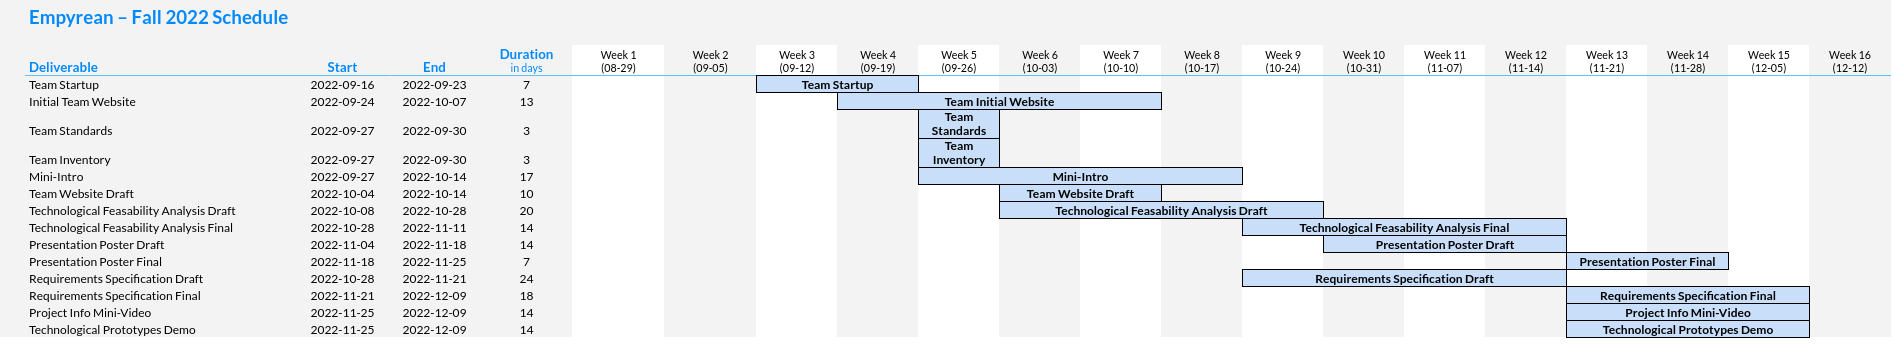
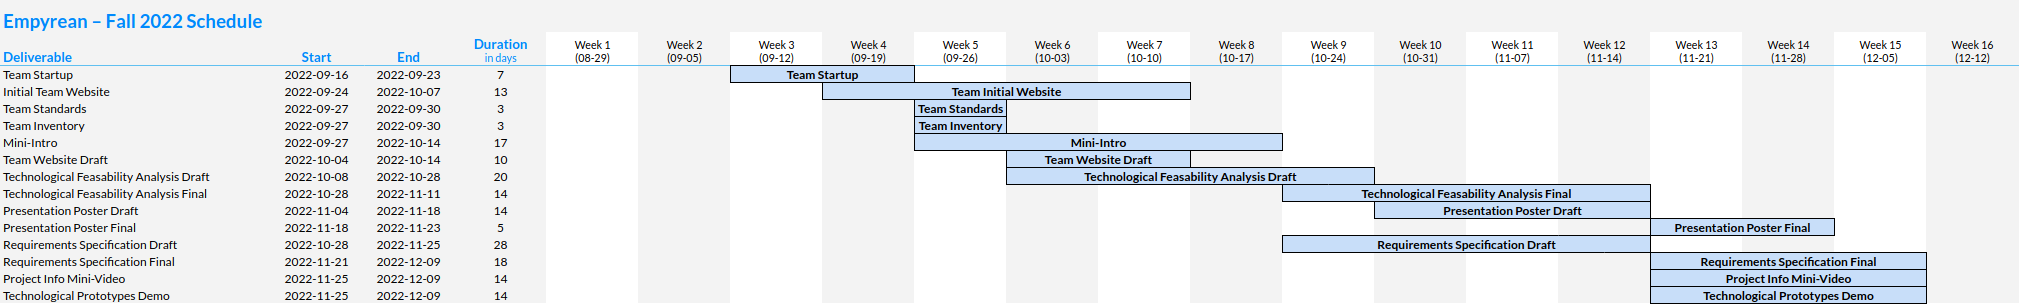
chore, refactor: update image names and Gantt chart
- remove errant index.html~ from Resources
- update team's image names for consistency
	- change names on landing page and "Team" page

- update Gantt chart with two corrected dates
	- requirements doc: 11-21 → 11-25
	- Poster Final: 11-23 → 11-25

Changed region(s): [[0.0, 0.1169, 0.9968, 0.9935], [0.0, 0.0292, 0.1558, 0.1169]]

diff --git a/Team/index.html b/Team/index.html
@@ -74,7 +74,7 @@
             <div class="row align-items-start">
                 <div class="col">
                     <img class="img-fluid d-block mb-3 mx-auto rounded-circle" alt="Jacob's face" width="200"
-                        src="../static/images/jacob_photo.jpg">
+                        src="../static/images/jacob_image.jpg">
                     <h4> <b>Jacob Penney</b> </h4>
                     <h6 class="subtitle mb-3">Team Lead</h6>
                     <p class="mb-0">
@@ -193,7 +193,7 @@
                     <div class="row align-items-start">
                         <div class="col">
                             <img class="img-fluid d-block mb-3 mx-auto rounded-circle" alt="Jakob's face" width="200"
-                                src="../static/images/Jakob_Face.jpg">
+                                src="../static/images/jakob_image.jpg">
                             <h4> <b>Jakob Pirkl</b> </h4>
                             <h6 class="subtitle mb-3">Architect</h6>
                             <p class="mb-0">
@@ -278,7 +278,7 @@
 				    </p>
 				  </li>
 				  <li>
-				    <p class="mb-0 text-start">Design new features for clients, in order to facilitate easier usage 
+				    <p class="mb-0 text-start">Design new features for clients, in order to facilitate easier usage
 </p>
 				  </li>
 				  <li>
@@ -313,7 +313,7 @@
                         <div class="row align-items-start">
                             <div class="col">
                                 <img class="img-fluid d-block mb-3 mx-auto rounded-circle" alt="Nhat's face" width="200"
-                                    src="../static/images/nhat_face.jpg">
+                                    src="../static/images/nhat_image.jpg">
                                 <h4> <b>Nhat Linh Nguyen</b> </h4>
                                 <h6 class="subtitle mb-3">Coder</h6>
                                 <p class="mb-0">

diff --git a/index.html b/index.html
@@ -82,7 +82,7 @@
 
                 <div class="row">
                     <div class="col-lg-4 col-md-6 p-4"> <img class="img-fluid d-block mb-3 mx-auto rounded-circle"
-                            alt="Jacob's face" width="150" src="./static/images/jacob_photo.jpg">
+                            alt="Jacob's face" width="150" src="./static/images/jacob_image.jpg">
                         <h4> <b>Jacob Penney</b> </h4>
                         <h6 class="subtitle mb-3">Team Lead</h6>
                         <p class="mb-0">
@@ -103,7 +103,7 @@
                         </p>
                     </div>
 
-                    <div class="col-lg-4 col-md-6 p-4"> <img class="img-fluid d-block mb-3 mx-auto rounded-circle" alt="Jakob's face" width="200" src="./static/images/Jakob_Face.jpg">
+                    <div class="col-lg-4 col-md-6 p-4"> <img class="img-fluid d-block mb-3 mx-auto rounded-circle" alt="Jakob's face" width="200" src="./static/images/jakob_image.jpg">
                         <h4 > <b>Jakob Pirkl</b> </h4>
                         <h6 class="subtitle mb-3">Architect</h6>
                         <p class="mb-0">
@@ -125,7 +125,7 @@
 
                     <!-- Nhat -->
                     <div class="col-lg-4 col-md-6 p-4"> <img class="img-fluid d-block mb-3 mx-auto rounded-circle"
-                        alt="Nhat's face" width="160" src="static/images/nhat_face.jpg">
+                        alt="Nhat's face" width="160" src="./static/images/nhat_image.jpg">
                         <h4 > <b>Nhat Linh Nguyen</b> </h4>
                         <h6 class="subtitle mb-3">Coder</h6>
                         <p class="mb-0">
